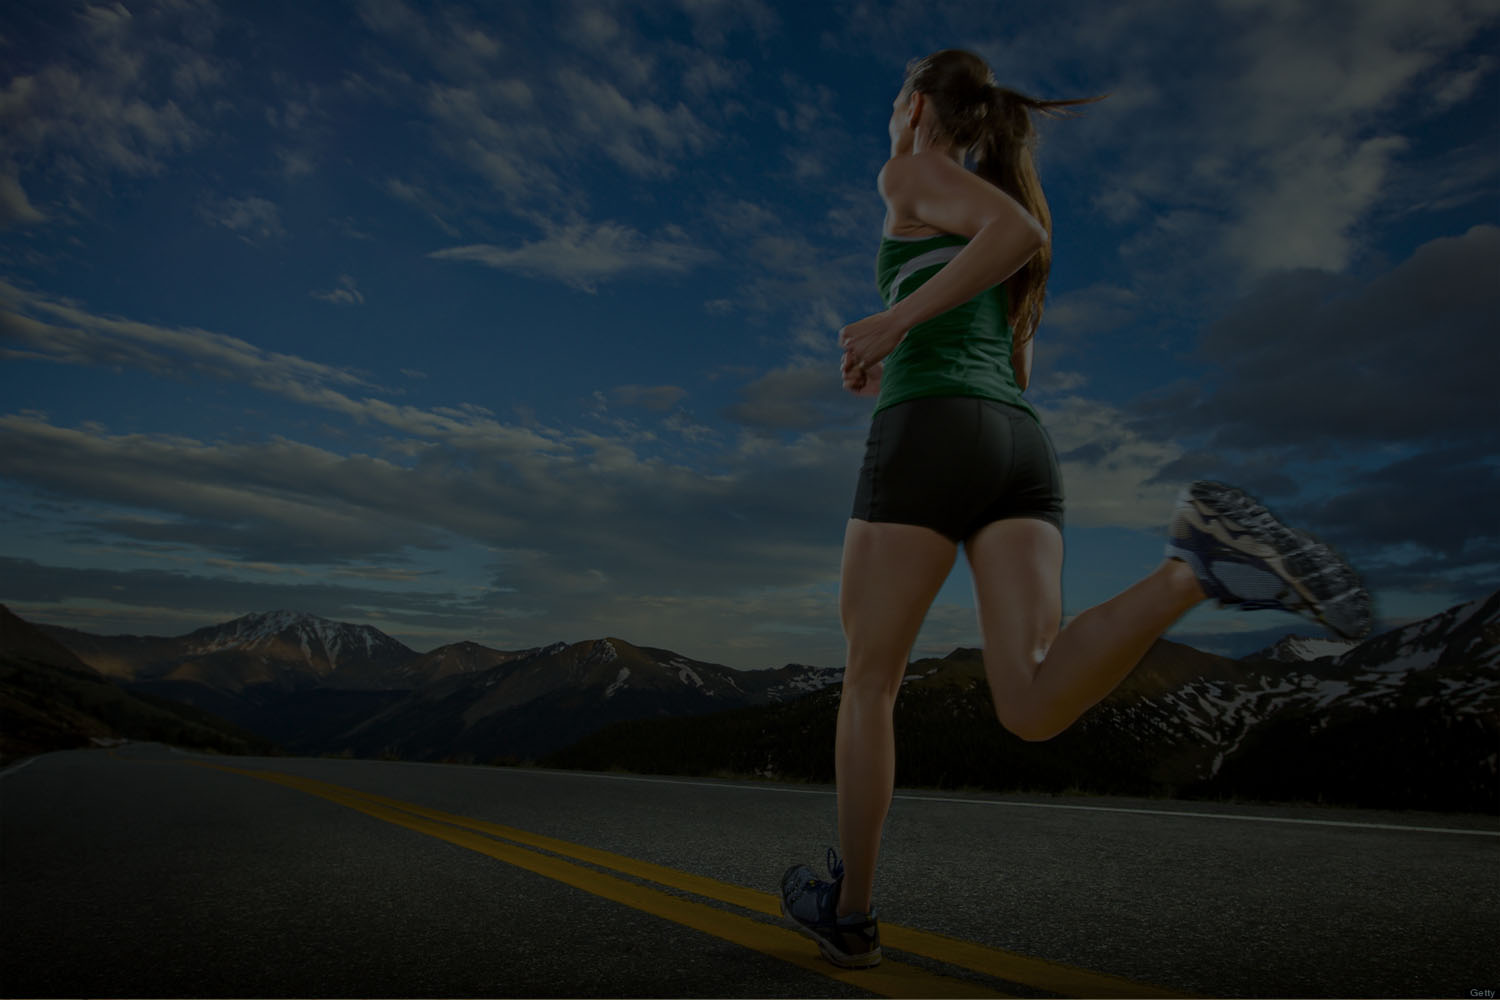
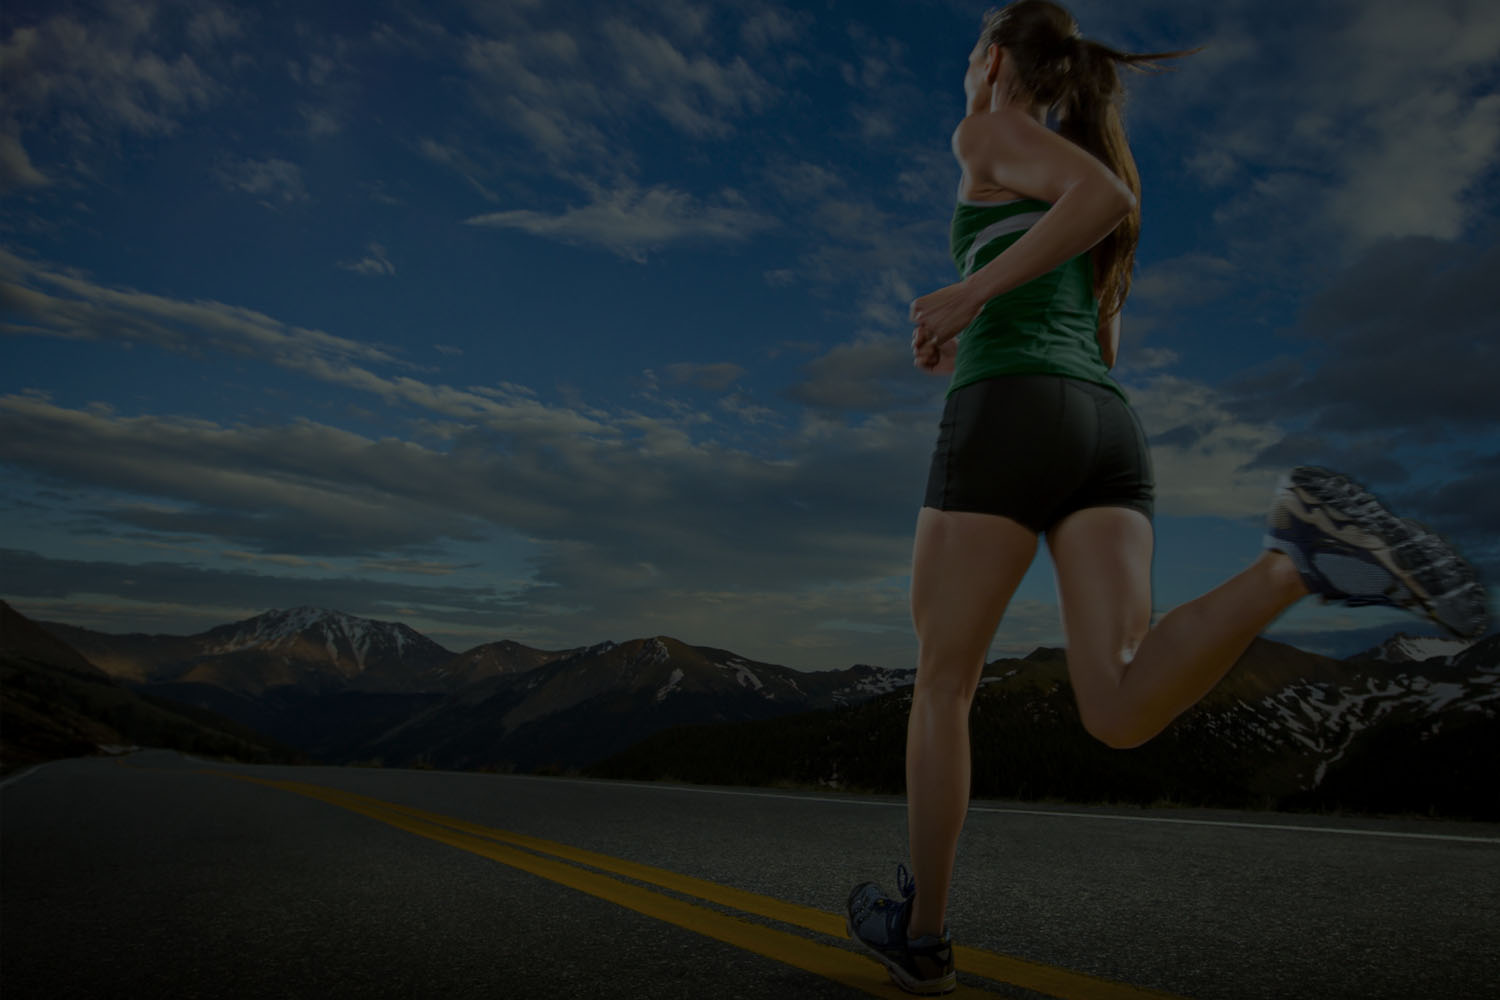
More home page styling.

diff --git a/src/components/Home.js b/src/components/Home.js
@@ -37,17 +37,17 @@ class Home extends Component {
             <h2>What is <br />Dash 4 Cash</h2>
             <i className='fa fa-question-circle' aria-hidden='true' />
           </div>
-          <section>
-            <div>
+          <section className='whatisD4C-words'>
+            <div >
               <p>What is your motivation to get in shape? Health? Beauty? Personal achievement? Those are great reasons but all of them have the same thing in common, YOU!</p>
               <p>What if you could achieve your fitness goals AND help others in need? What if you could also help your friends to meet their goals all while raising funds and awareness for causes that you care about? Now you can.</p>
               <p>Dash for Cash is a social fitness platform that helps people maintain a healthy lifestyle by connecting their fitness goals to a greater purpose. So how does it work?”</p>
-              <div className='continue'>
-                <ScrollAnimLink to='donate' className='chevron'>
-                  <p>Continue</p>
-                  <i className='fa fa-chevron-down faa-float animated' aria-hidden='true' />
-                </ScrollAnimLink>
-              </div>
+            </div>
+            <div className='continue'>
+              <ScrollAnimLink to='donate' className='chevron'>
+                {/* <p>Continue</p> */}
+                <i className='fa fa-chevron-down faa-float animated' aria-hidden='true' />
+              </ScrollAnimLink>
             </div>
           </section>
         </div>
@@ -57,12 +57,14 @@ class Home extends Component {
             <h3>Donate</h3>
             <i className='fa fa-money' aria-hidden='true' />
           </div>
-          <section>
-            <p>Choose a charity that your group would like to support. If you need help, here is a list of some great charities to get you started.”</p>
-            <p>At the beginning of each “Dash” you will be asked to make a donation. We make it easy to pay using your debit card or PayPal and we accept donations starting at only $2. Your giving amounts are private but the group’s total donation amount will be made available for all to see.</p>
+          <section className='donate-words'>
+            <div>
+              <p>Choose a charity that your group would like to support. If you need help, here is a list of some great charities to get you started.”</p>
+              <p>At the beginning of each “Dash” you will be asked to make a donation. We make it easy to pay using your debit card or PayPal and we accept donations starting at only $2. Your giving amounts are private but the group’s total donation amount will be made available for all to see.</p>
+            </div>
             <div className='continue'>
               <ScrollAnimLink to='dash' className='chevron'>
-                <p>Continue</p>
+                {/* <p>Continue</p> */}
                 <i className='fa fa-chevron-down faa-float animated' aria-hidden='true' />
               </ScrollAnimLink>
             </div>
@@ -74,39 +76,32 @@ class Home extends Component {
             <h3>Dash</h3>
             <i className='fa fa-fast-forward' aria-hidden='true' />
           </div>
-          <section>
-            <p>Now go for a run! Use your Strava app* to track and log your activity just like normal. When you finish and upload your workout, D4C will sync your Strava data automatically.</p>
-            <p>* or whatever app you use to track your workouts as long as it syncs to Strava.</p>
+          <section className='dash-words'>
+            <div>
+              <p>Now go for a run! Use your Strava app* to track and log your activity just like normal. When you finish and upload your workout, D4C will sync your Strava data automatically.</p>
+              <p>* or whatever app you use to track your workouts as long as it syncs to Strava.</p>
+            </div>
             <div className='continue'>
               <ScrollAnimLink to='track' className='chevron'>
-                <p>Continue</p>
+                {/* <p>Continue</p> */}
                 <i className='fa fa-chevron-down faa-float animated' aria-hidden='true' />
               </ScrollAnimLink>
             </div>
           </section>
         </div>
 
-        {/* <div className='section small' id='dash'>
-          <h3 className='header2'>
-            Dash<br />
-            <i className='fa fa-fast-forward' aria-hidden='true' />
-          </h3>
-          <section>
-            <p>Now go for a run! Use your Strava app* to track and log your activity just like normal. When you finish and upload your workout, D4C will sync your Strava data automatically.</p>
-            <p>* or whatever app you use to track your workouts as long as it syncs to Strava.</p>
-          </section>
-        </div> */}
-
         <div className='sections'>
           <div className='small header3' id='track'>
             <h3>Track</h3>
             <i className='fa fa-line-chart' aria-hidden='true' />
           </div>
-          <section>
-            <p>Log into D4C and see personal stats as well as your group’s progress. Dashes can last for a day, a week, or a month and are based on either total distance or total moving time* during that period. You will feel great as you watch your fitness grow along with your dollars. Every run now has a purpose and the potential to change not only your life but also the life of someone in need.</p>
+          <section className='track-words'>
+            <div>
+              <p>Log into D4C and see personal stats as well as your group’s progress. Dashes can last for a day, a week, or a month and are based on either total distance or total moving time* during that period. You will feel great as you watch your fitness grow along with your dollars. Every run now has a purpose and the potential to change not only your life but also the life of someone in need.</p>
+            </div>
             <div className='continue'>
               <ScrollAnimLink to='ready' className='chevron'>
-                <p>Continue</p>
+                {/* <p>Continue</p> */}
                 <i className='fa fa-chevron-down faa-float animated' aria-hidden='true' />
               </ScrollAnimLink>
             </div>
@@ -118,10 +113,12 @@ class Home extends Component {
             <h3>Ready to get started?</h3>
             <i className='fa fa-play' aria-hidden='true' />
           </div>
-          <section>
-            <p>We use your Strava data to keep track of your progress. Click the button below to get log into your Strava account and get connected.</p>
+          <section className='ready-words'>
+            <div>
+              <p>We use your Strava data to keep track of your progress. Click the button below to get log into your Strava account and get connected.</p>
+            </div>
             <Link to='/profile'><img src={stravaButton} /></Link>
-            <p>Having trouble?<br />Click here for our <Link to='/help'>Help Section</Link></p>
+            <p>Having trouble? Click here for our <Link to='/help'>Help Section</Link></p>
           </section>
         </div>
 

diff --git a/src/styles/screen.scss b/src/styles/screen.scss
@@ -23,8 +23,8 @@ html {
 body {
   margin: 0;
   font: $font-base-text-size / 1 $font-Roboto;
-  background-color: $color-navy;
-  color: hsl(0, 2%, 84%);
+  background-color: darken($color-navy, 5);
+  color: hsla(0, 0%, 84%, 1);
   // background-color: rgb(232, 227, 201);
   // color: rgb(24, 25, 26);
 }
@@ -137,7 +137,7 @@ body {
     }
 
     @media (max-width: 360px) {
-      height: 100vh;
+      min-height: 100vh;
     }
 
     @media (min-width: 640px) {
@@ -345,6 +345,8 @@ body {
     align-items: center;
     text-align: left;
     padding: 20px;
+    // height: 1000px;
+    // background-image: radial-gradient(darken($color-navy, 4), darken($color-navy, 8));
 
     p {
       font-weight: lighter;
@@ -360,6 +362,54 @@ body {
   }
 }
 
+.whatisD4C-words {
+  display: flex;
+  flex-direction: row;
+  background-position: bottom;
+  background-repeat: no-repeat;
+  background-size: cover;
+  background-image: url(../images/BG-runner-01.jpg);
+}
+
+.donate-words {
+  display: flex;
+  flex-direction: row;
+  background-position: bottom;
+  background-repeat: no-repeat;
+  background-size: cover;
+  background-image: url(../images/BG-runner-02.jpg);
+}
+
+.dash-words {
+  display: flex;
+  flex-direction: row;
+  background-position: bottom;
+  background-repeat: no-repeat;
+  background-size: cover;
+  background-image: url(../images/BG-runner-03.jpg);
+}
+
+.track-words {
+  display: flex;
+  flex-direction: row;
+  background-position: bottom;
+  background-repeat: no-repeat;
+  background-size: cover;
+  background-image: url(../images/BG-runner-04.jpg);
+}
+
+.ready-words {
+  color: darken($color-navy, 20);
+  display: flex;
+  flex-direction: row;
+  background-color: hsla(0, 2%, 84%, 0.9);
+  // background-position: bottom;
+  // background-repeat: no-repeat;
+  // background-size: cover;
+  // background-image: url(../images/BG-runner-04.jpg);
+}
+
+
 // HomeNavbar and InnerNavbar styling
 
 .navBar {
@@ -370,6 +420,8 @@ body {
   }
 
   .homeNavUl {
+    color: white;
+
     i {
       padding-left: 15px;
     }
@@ -614,7 +666,7 @@ body {
   }
 
   .custom-count {
-    font-size: 2.25em;
+    font-size: 3em;
   }
 
   h3 {
@@ -624,6 +676,10 @@ body {
     font-size: 1.5em;
     text-transform: uppercase;
     // padding: 0 30px 30px 0;
+  }
+
+  .donations {
+    text-align: center;
   }
 }
 
@@ -781,21 +837,33 @@ $button-transition: all #{$button-speed} cubic-bezier(0.31, -0.105, 0.43, 1.4);
 }
 
 .homeFooter {
-  // position: fixed;
-  // left: 0px;
-  // bottom: 0px;
-  // height: 1000px;
-  // width: 100vw;
   background: darken($color-navy, 5);
-  padding: 10px;
+  padding: 30px;
+  color: white;
 
   h2 {
-    text-align: center;
+    // text-align: center;
+    // padding: 10px;
+  }
+
+  h5 {
+    font-weight: 300;
   }
 
   footer {
     display: flex;
     flex-wrap: wrap;
+    flex-direction: column;
+    // align-items: center;
+
+    @media (min-width: 640px) {
+      flex-direction: row;
+      // align-items: center;
+    }
+
+    .footer-list {
+      padding-left: 10px;
+    }
 
     ul {
       list-style-type: none;
@@ -804,13 +872,17 @@ $button-transition: all #{$button-speed} cubic-bezier(0.31, -0.105, 0.43, 1.4);
       li {
         font-weight: 300;
         font-family: $font-Roboto;
-        padding: 10px;
+        line-height: 2em;
+
+        a {
+          text-decoration: none;
+        }
       }
 
-      // .appleStore {
-      //   background-image: url(../images/appstore_button_iphone.png);
-      //   background-size: contain;
-      // }
+      .store-buttons {
+        margin: 0;
+        padding: 0;
+      }
     }
 
     div {

diff --git a/src/components/HomeFooter.js b/src/components/HomeFooter.js
@@ -1,6 +1,8 @@
 import React, { Component } from 'react'
 import { Link } from 'react-router'
 // import ScrollAnim from 'rc-scroll-anim'
+import googleButton from '../images/buttons/googleplaybutton.png'
+import appleButton from '../images/buttons/appstore_button_iphone.gif'
 
 export default class HomeFooter extends Component {
 
@@ -19,36 +21,45 @@ export default class HomeFooter extends Component {
 
     return (
       <div className='homeFooter'>
-        <h2>Dash 4 Cash</h2>
         <footer>
-          <div>
-            <h4>Menu</h4>
-            <ul>
-              <li>About</li>
-              <li>Blog</li>
-              <li>Support</li>
-              <li>Contact Us</li>
-            </ul>
+          <div className='footer-list'>
+            <h2>Dash 4 Cash</h2>
+            <h5>&copy; 2017 Caleb Frost Sanderson</h5>
           </div>
           <div>
-            <h4>Follow</h4>
-            <ul>
-              <li>Facebook</li>
-              <li>Instagram</li>
-              <li>Twitter</li>
-              <li>YouTube</li>
-              <li>GitHub</li>
-            </ul>
+            <div className='footer-list'>
+              <h4>Menu</h4>
+              <ul>
+                <li>About</li>
+                <li>Blog</li>
+                <li>Support</li>
+                <li>Contact Us</li>
+              </ul>
+            </div>
           </div>
           <div>
-            <h4>Get Started</h4>
-            <ul>
-              <li>Sign Up</li>
-              <li>Login</li>
-              <li><Link to='/help' >Help</Link></li>
-              <li className='googlePlay'><img src='../images/googleplaybutton.png' alt='Google Play Store button' width='100px' height='30px' /></li>
-              <li className='appStore'><img src='../images/appstore_button_iphone.png' alt='App Store button image' width='100px' height='30px' /></li>
-            </ul>
+            <div className='footer-list'>
+              <h4>Follow</h4>
+              <ul>
+                <li><a href='https://www.facebook.com/caleb.f.sanderson' target='_blank'>Facebook</a></li>
+                <li><a href='https://twitter.com/cfsanderson' target='_blank'>Twitter</a></li>
+                <li><a href='https://www.instagram.com/cfsanderson/' target='_blank'>Instagram</a></li>
+                <li><a href='https://www.linkedin.com/in/calebsanderson/' target='_blank'>LinkedIn</a></li>
+                <li><a href='https://github.com/cfsanderson' target='_blank'>GitHub</a></li>
+              </ul>
+            </div>
+          </div>
+          <div>
+            <div className='footer-list'>
+              <h4>Get Started</h4>
+              <ul>
+                <li>Sign Up</li>
+                <li>Login</li>
+                <li><Link to='/help' >Help</Link></li>
+                <li className='store-buttons'><img src={googleButton} alt='Google Play Store button' width='100px' height='30px' /></li>
+                <li className='store-buttons'><img src={appleButton} alt='App Store button image' width='100px' height='30px' /></li>
+              </ul>
+            </div>
           </div>
         </footer>
       </div>

diff --git a/src/components/Profile.js b/src/components/Profile.js
@@ -20,13 +20,13 @@ export default function Profile () {
           <ul className='donations-ul'>
             <li className='donations' >
               <div>
-                <h3>Donations by Me</h3>
+                <h3>My Donations</h3>
                 <MyDonations />
               </div>
             </li>
             <li className='donations' >
               <div>
-                <h3>Donations by My Groups</h3>
+                <h3>Group Donations</h3>
                 <MyGroupsDonations />
               </div>
             </li>
